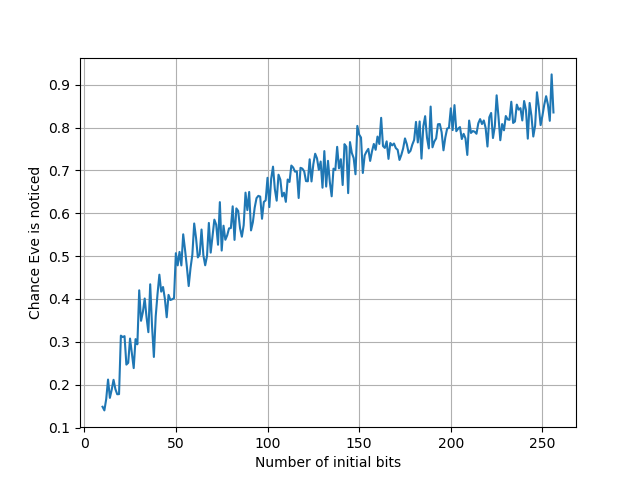
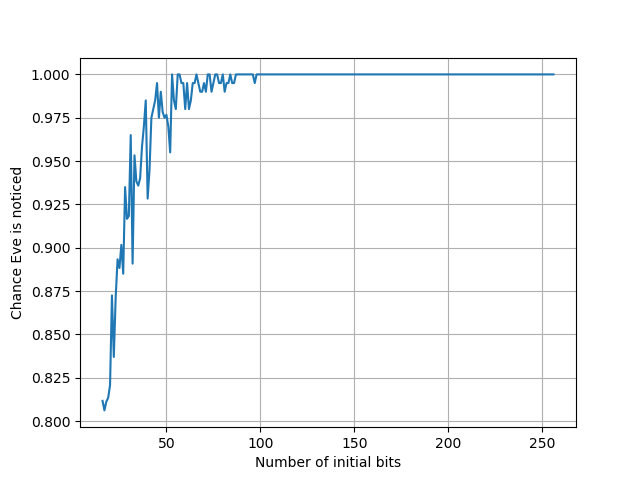
Add files via upload

diff --git a/qkd/simulateQKD.py b/qkd/simulateQKD.py
@@ -64,6 +64,11 @@ def simulateBB84(N, eavesdrop_rate, error_rate, eve, detailed):
         print('Alice encodes her bits using her basis choice, and sends the encrypted bits to Bob')
     
     alice_sent = bb84.encode(alice_bits, alice_bases)
+    encoded_list = bb84.get_encoded_list(alice_bits, alice_bases)
+
+    if detailed:
+        print("Encoded qubit polarizations:\n", tools.list_to_string(encoded_list), sep = '')
+
 
     if eve:
         eve_bases = tools.generateBases(int(N * eavesdrop_rate))
@@ -96,8 +101,9 @@ def simulateBB84(N, eavesdrop_rate, error_rate, eve, detailed):
         print("Bob's measured bits:\n", tools.list_to_string(bob_bits), sep='')
         print("Alice and Bob share their basis choices, and generate their own keys.")
 
-    alice_sifted = tools.sift_bits(alice_bits, alice_bases, bob_bases)
-    bob_sifted = tools.sift_bits(bob_bits, bob_bases, alice_bases)
+    alice_sifted, alice_sifted_for_print = tools.sift_bits(alice_bits, alice_bases, bob_bases)
+    bob_sifted, bob_sifted_for_print = tools.sift_bits(bob_bits, bob_bases, alice_bases)
+
 
     if detailed:
         print("Alice's sifted key:\n",tools.list_to_string(alice_sifted), sep='')
@@ -126,12 +132,15 @@ def simulateBB84(N, eavesdrop_rate, error_rate, eve, detailed):
         alice_temp = alice_postDisclose.copy() # we want to keep the string of bits before running CASCADE for printing to table
         bob_temp = bob_postDisclose.copy()
 
-        alice_reconciled, bob_reconciled = cascade.runCascade(alice_temp, bob_temp, error_rate)
-        if detailed:
-            print('Alice and Bob perform the CASCADE algorithm for error reconciliation')
-            print("Alice's reconciled key:\n",tools.list_to_string(alice_reconciled), sep='')
-            print("Bob's reconciled key:\n", tools.list_to_string(bob_reconciled), sep='')
-            print('Error after CASCADE: ',tools.calculateError(alice_reconciled, bob_reconciled))
+        if error_rate == 0.0:
+            alice_reconciled, bob_reconciled = alice_temp, bob_temp
+        else:
+            alice_reconciled, bob_reconciled = cascade.runCascade(alice_temp, bob_temp, error_rate)
+            if detailed:
+                print('Alice and Bob perform the CASCADE algorithm for error reconciliation')
+                print("Alice's reconciled key:\n",tools.list_to_string(alice_reconciled), sep='')
+                print("Bob's reconciled key:\n", tools.list_to_string(bob_reconciled), sep='')
+                print('Error after CASCADE: ',tools.calculateError(alice_reconciled, bob_reconciled))
 
         alice_final_key, bob_final_key = privacy_amplification.privacy_amp(alice_reconciled, bob_reconciled, disclosed_error)
 
@@ -148,8 +157,8 @@ def simulateBB84(N, eavesdrop_rate, error_rate, eve, detailed):
 
 
         # Only practical for small data sizes
-        table.printTable(alice_bits, alice_bases, eve_bases, bob_bases, bob_bits,
-                alice_sifted,bob_sifted, alice_postDisclose, bob_postDisclose, alice_reconciled,
+        table.printTable(alice_bits, alice_bases, encoded_list, eve_bases, bob_bases, bob_bits,
+                alice_sifted_for_print,bob_sifted_for_print, alice_postDisclose, bob_postDisclose, alice_reconciled,
                 bob_reconciled, alice_final_key, bob_final_key)
 
         return [alice_final_key, bob_final_key]

diff --git a/qkd/generatePlots.py b/qkd/generatePlots.py
@@ -2,7 +2,7 @@ import matplotlib.pyplot as plt
 import simulateQKD as sim 
 import numpy as np
 
-def plotKeyLength(N, errorRate):
+def plotKeyLength(N, error_rate):
     numBits = np.arange(10, N + 1)
 
     keyLength = []
@@ -11,12 +11,12 @@ def plotKeyLength(N, errorRate):
         lenKeyTemp = []
         count = 0
         while True:
-            alice_key, bob_key = sim.simulateBB84(i, errorRate = errorRate)
+            alice_key, bob_key = sim.simulateBB84(i, error_rate = error_rate, eve = False, eavesdrop_rate = 1.0, detailed = False)
             if alice_key[0] != 'terminated':
                 lenKeyTemp.append(len(alice_key))
                 count += 1
 
-            if count == 100:
+            if count == 10:
                 break
 
         keyLength.append(sum(lenKeyTemp)/len(lenKeyTemp))
@@ -29,8 +29,8 @@ def plotKeyLength(N, errorRate):
     plt.grid(True)
     plt.savefig('keylength.png')
 
-def plotEveSuccess(N, eavesdropRate):
-    numBits = np.arange(10, N + 1)
+def plotEveSuccess(N, eavesdrop_rate, error_rate):
+    numBits = np.arange(16, N + 1)
     eveSuccess = []
     
     for i in numBits:
@@ -38,7 +38,8 @@ def plotEveSuccess(N, eavesdropRate):
         for j in range(0, 100):
             count = 0
             while True:
-                alice_key, bob_key = sim.simulateBB84(i, eve = True, eavesdropRate = eavesdropRate)
+                alice_key, bob_key = sim.simulateBB84(i, eve = True, eavesdrop_rate =
+                        eavesdrop_rate, error_rate = error_rate, detailed = False)
                 count += 1
 
                 if alice_key[0] == 'aborted' and bob_key[0] == 'aborted':
@@ -54,4 +55,30 @@ def plotEveSuccess(N, eavesdropRate):
     plt.ylabel('Chance Eve is noticed')
     plt.grid(True)
     plt.savefig('evesuccess.png')
+
+
+def plot_var_eve_rate(N, error_rate):
+    success = []
+    eve_rate = np.linspace(0.1, 1.0, 100)
+    for i in range(len(eve_rate)):
+        success_temp = []
+        for j in range(0, 1000):
+            count = 0
+            while True:
+                alice_key, bob_key = sim.simulateBB84(64, eve = True, eavesdrop_rate = eve_rate[i],
+                        error_rate = error_rate, detailed = False)
+                count+=1
+
+                if alice_key[0] == 'aborted' and bob_key[0] == 'aborted':
+                    break
+
+            success_temp.append(1/count)
+        success.append(sum(success_temp)/len(success_temp))
+
+    plt.figure()
+    plt.plot(eve_rate, success)
+    plt.xlabel('Eavesdrop Rate')
+    plt.ylabel('Chance Eve is noticed')
+    plt.grid(True)
+    plt.savefig('vareve.png')
 

diff --git a/qkd/QKDTools.py b/qkd/QKDTools.py
@@ -23,14 +23,18 @@ def generateBases(N):
         
     return bases
 
-def sift_bits(bits, bases, otherBases):
+def sift_bits(bits, bases, other_bases):
     key = []
+    key_for_print = []
 
     for i in range(len(bits)):
-        if bases[i] == otherBases[i]:
+        if bases[i] == other_bases[i]:
             key.append(bits[i])
+            key_for_print.append(str(bits[i]))
+        else:
+            key_for_print.append(' ')
 
-    return key
+    return key, key_for_print
 
 def discloseBits(alice_bits, bob_bits):
     temp = np.arange(0, len(alice_bits))

diff --git a/qkd/table.py b/qkd/table.py
@@ -1,7 +1,7 @@
 from tabulate import tabulate
     
 def printTable(*arg):
-    row_header = ["Alice's Bits", "Alice's Bases", "Eve's Bases", "Bob's Bases", "Bob's Bits",
+    row_header = ["Alice's Bits", "Alice's Bases", "Encoded Qubits", "Eve's Bases", "Bob's Bases", "Bob's Bits",
             "Alice's Sifted Bits", "Bob's Sifted Bits", "Alice's Bits After Disclosure", 
             "Bob's Bits After Disclosure", "Alice's Key After CASCADE", "Bob's Key After CASCADE",
             "Alice's Final Key", "Bob's Final Key"]

diff --git a/qkd/bb84.py b/qkd/bb84.py
@@ -60,4 +60,18 @@ def generateNoise(bits, rate):
 
     return bits
 
-
+def get_encoded_list(bits, bases):
+    a = []
+    for i in range(len(bits)):
+        if bits[i] == 0:
+            if bases[i] == 'X':
+                a.append('↑')
+            else:
+                a.append('↖')
+        else:
+            if bases[i] == 'X':
+                a.append('→')
+            else:
+                a.append('↗')
+        
+    return a

diff --git a/qkd/run.py b/qkd/run.py
@@ -1,0 +1,7 @@
+import simulateQKD
+import generatePlots 
+
+simulateQKD.create_gui_and_run()
+#generatePlots.plotKeyLength(1024, error_rate = 0.2)
+#generatePlots.plotEveSuccess(256, 1.0, error_rate = 0.0001)
+#generatePlots.plot_var_eve_rate(64, 0.2)
